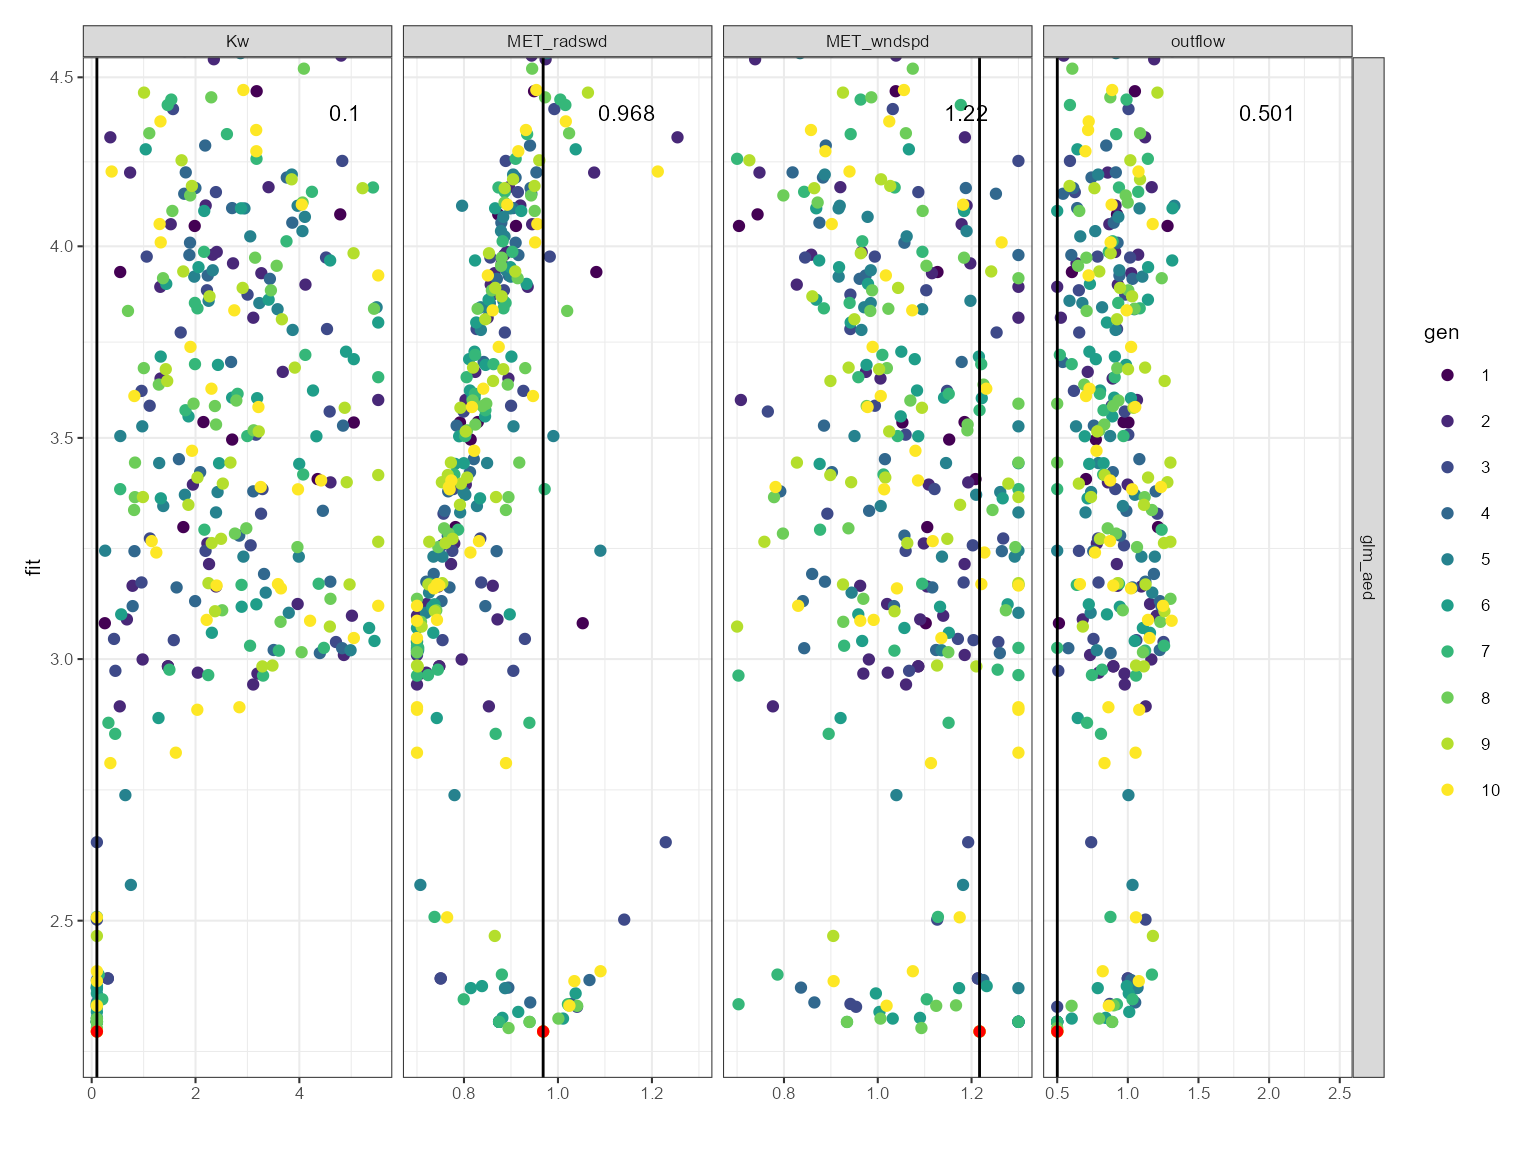
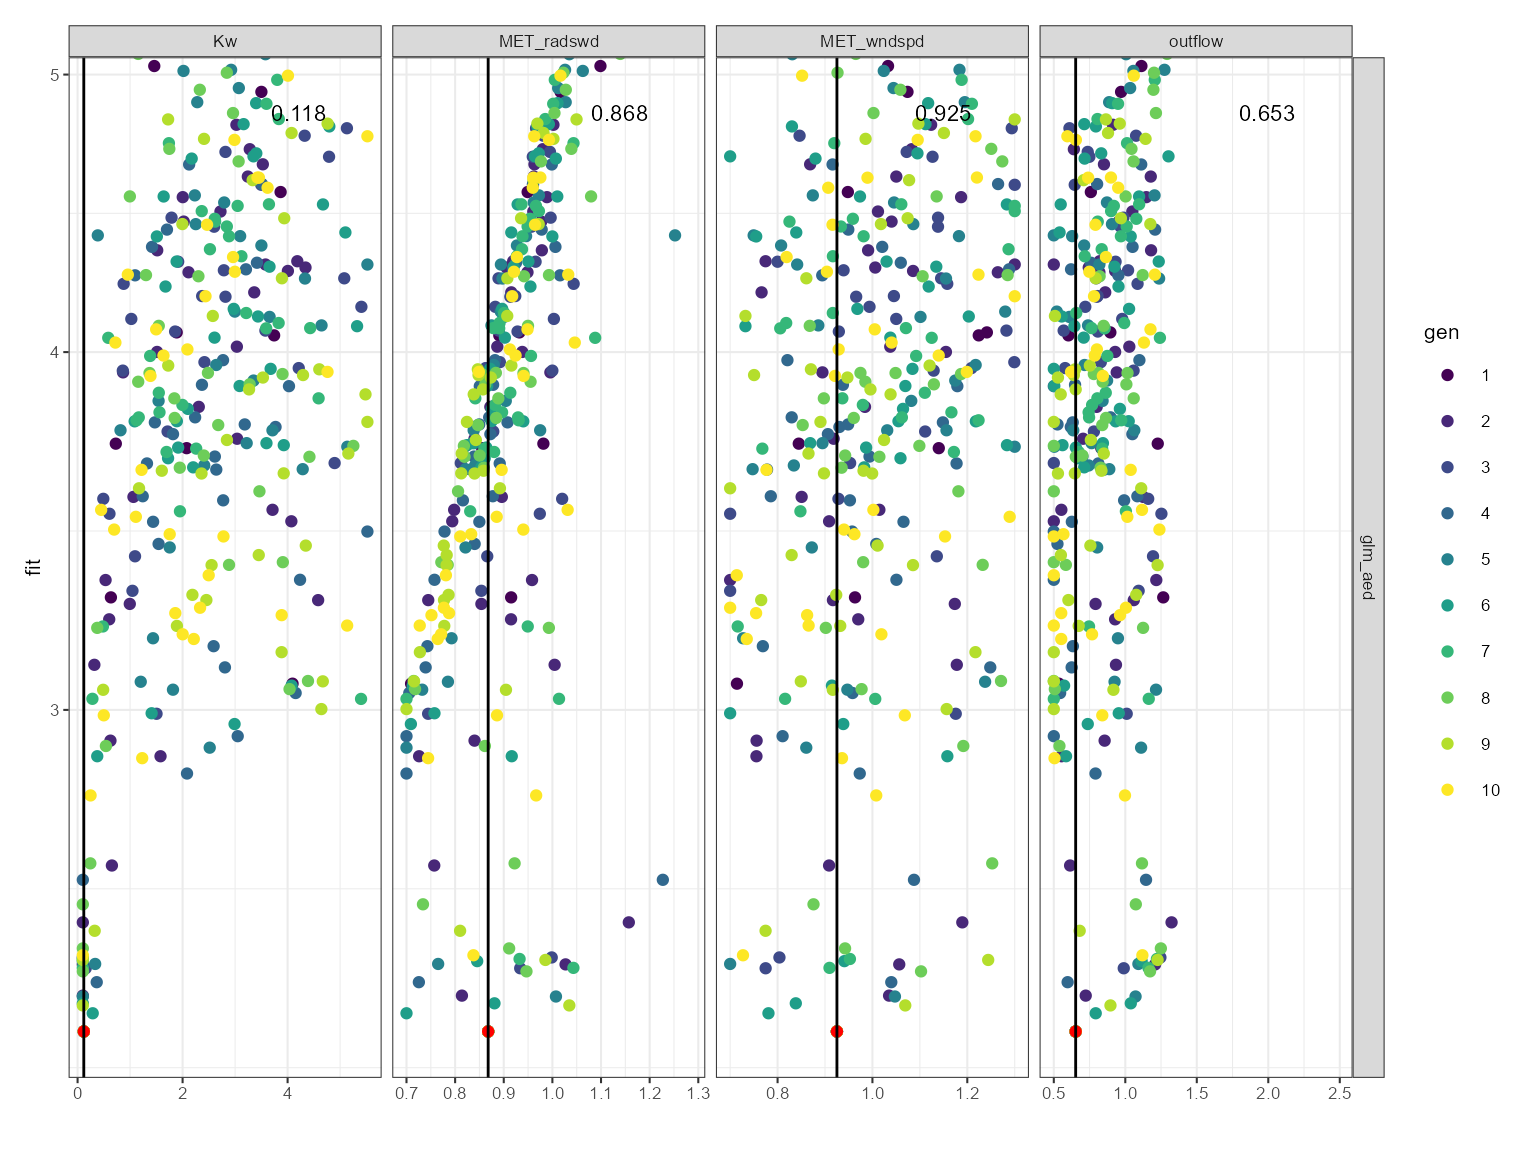
Deploying to gh-pages from @ limnotrack/aemetools@3beab13bdbebe8a0a042f3feb2450aef5371d04f 🚀

diff --git a/articles/calibrate-aeme.html b/articles/calibrate-aeme.html
@@ -121,9 +121,9 @@ make sure the current model setup is working.</p>
 <code class="sourceCode R"><span><span class="va">aeme_data</span> <span class="op">&lt;-</span> <span class="fu"><a href="https://rdrr.io/pkg/AEME/man/run_aeme.html" class="external-link">run_aeme</a></span><span class="op">(</span>aeme_data <span class="op">=</span> <span class="va">aeme_data</span>, model <span class="op">=</span> <span class="va">model</span>,</span>
 <span>                      verbose <span class="op">=</span> <span class="cn">FALSE</span>, mod_ctrls <span class="op">=</span> <span class="va">mod_ctrls</span>,</span>
 <span>                      path <span class="op">=</span> <span class="va">path</span><span class="op">)</span></span>
-<span><span class="co">#&gt; Running models... (Have you tried parallelizing?) [2023-11-10 00:38:08.716046]</span></span>
-<span><span class="co">#&gt; GLM-AED run successful! [2023-11-10 00:38:09.447004]</span></span>
-<span><span class="co">#&gt; Model run complete![2023-11-10 00:38:09.447869]</span></span>
+<span><span class="co">#&gt; Running models... (Have you tried parallelizing?) [2023-11-15 00:41:56.125141]</span></span>
+<span><span class="co">#&gt; GLM-AED run successful! [2023-11-15 00:41:56.868176]</span></span>
+<span><span class="co">#&gt; Model run complete![2023-11-15 00:41:56.868888]</span></span>
 <span><span class="co">#&gt; Retrieving and formatting temp for model glm_aed</span></span>
 <span><span class="co">#&gt; Retrieving and formatting salt for model glm_aed</span></span>
 <span><span class="fu"><a href="https://rdrr.io/r/graphics/plot.default.html" class="external-link">plot</a></span><span class="op">(</span><span class="va">aeme_data</span><span class="op">)</span></span></code></pre></div>
@@ -228,9 +228,9 @@ but the model output is generate within the lake folder.</p>
 <div class="sourceCode" id="cb7"><pre class="downlit sourceCode r">
 <code class="sourceCode R"><span><span class="fu"><a href="../reference/run_aeme_param.html">run_aeme_param</a></span><span class="op">(</span>aeme_data <span class="op">=</span> <span class="va">aeme_data</span>, param <span class="op">=</span> <span class="va">aeme_parameters</span>,</span>
 <span>                 model <span class="op">=</span> <span class="va">model</span>, path <span class="op">=</span> <span class="va">path</span>, mod_ctrls <span class="op">=</span> <span class="va">mod_ctrls</span><span class="op">)</span></span>
-<span><span class="co">#&gt; Running models... (Have you tried parallelizing?) [2023-11-10 00:38:21.963193]</span></span>
-<span><span class="co">#&gt; GLM-AED run successful! [2023-11-10 00:38:22.682436]</span></span>
-<span><span class="co">#&gt; Model run complete![2023-11-10 00:38:22.683314]</span></span></code></pre></div>
+<span><span class="co">#&gt; Running models... (Have you tried parallelizing?) [2023-11-15 00:42:07.5424]</span></span>
+<span><span class="co">#&gt; GLM-AED run successful! [2023-11-15 00:42:08.266664]</span></span>
+<span><span class="co">#&gt; Model run complete![2023-11-15 00:42:08.267369]</span></span></code></pre></div>
 </div>
 <div class="section level2">
 <h2 id="calibration-setup">Calibration setup<a class="anchor" aria-label="anchor" href="#calibration-setup"></a>
@@ -309,11 +309,11 @@ This is only used if <code>parallel = TRUE</code>.</li>
 </h3>
 <p>Next we will select the variables to use for the calibration. The
 variables selected need to use the AEME variable definition e.g.
-<code>c("HYD_temp", "HYD_wlev")</code>. Weights need to be attributed to
-each of the variables. The weights are used to scale the fitness value.
-This can be helpful if the variables have different units. For example,
-if the temperature is in degrees Celsius and the water level is in
-metres, then the water level will have a much larger impact on the
+<code>c("HYD_temp", "LKE_lvlwtr")</code>. Weights need to be attributed
+to each of the variables. The weights are used to scale the fitness
+value. This can be helpful if the variables have different units. For
+example, if the temperature is in degrees Celsius and the water level is
+in metres, then the water level will have a much larger impact on the
 fitness value. Therefore, the weight for the water level should be much
 smaller than the weight for the temperature.</p>
 <p>The weights are specified in a named vector. The names of the vector
@@ -364,79 +364,79 @@ values.</p>
 <span>                   param <span class="op">=</span> <span class="va">aeme_parameters</span>, model <span class="op">=</span> <span class="va">model</span>,</span>
 <span>                   mod_ctrls <span class="op">=</span> <span class="va">mod_ctrls</span>, FUN <span class="op">=</span> <span class="va">fit</span>, ctrl <span class="op">=</span> <span class="va">ctrl</span>,</span>
 <span>                   vars_sim <span class="op">=</span> <span class="va">vars_sim</span>, weights <span class="op">=</span> <span class="va">weights</span><span class="op">)</span></span>
-<span><span class="co">#&gt; Extracting indices for modelled variables [2023-11-10 00:38:23.019259]</span></span>
-<span><span class="co">#&gt; Complete! [2023-11-10 00:38:23.877314]</span></span>
+<span><span class="co">#&gt; Extracting indices for modelled variables [2023-11-15 00:42:08.591441]</span></span>
+<span><span class="co">#&gt; Complete! [2023-11-15 00:42:09.444006]</span></span>
 <span><span class="co">#&gt; Calibrating in parallel using 1 cores...</span></span>
-<span><span class="co">#&gt; Starting generation 1/10, 40 members. [2023-11-10 00:38:24.135107]</span></span>
+<span><span class="co">#&gt; Starting generation 1/10, 40 members. [2023-11-15 00:42:09.697376]</span></span>
 <span><span class="co">#&gt;        light.Kw MET_wndspd MET_radswd outflow</span></span>
-<span><span class="co">#&gt; mean      2.798     1.0010     1.0000  1.4970</span></span>
-<span><span class="co">#&gt; median    2.816     1.0000     1.0010  1.5200</span></span>
-<span><span class="co">#&gt; sd        1.594     0.1758     0.1751  0.5868</span></span>
-<span><span class="co">#&gt; Best fit: 2.985 (sd: 323.568)</span></span>
-<span><span class="co">#&gt;             Parameters: [1.469, 1.086, 0.747, 0.897]</span></span>
+<span><span class="co">#&gt; mean      2.812     0.9992     1.0000  1.4970</span></span>
+<span><span class="co">#&gt; median    2.821     0.9955     1.0030  1.4930</span></span>
+<span><span class="co">#&gt; sd        1.580     0.1758     0.1759  0.5849</span></span>
+<span><span class="co">#&gt; Best fit: 2.316 (sd: 323.419)</span></span>
+<span><span class="co">#&gt;             Parameters: [0.118, 0.925, 0.868, 0.653]</span></span>
 <span><span class="co">#&gt; Survival rate: 1</span></span>
-<span><span class="co">#&gt; Starting generation 2/10, 40 members. [2023-11-10 00:38:59.204338]</span></span>
+<span><span class="co">#&gt; Starting generation 2/10, 40 members. [2023-11-15 00:42:44.512473]</span></span>
 <span><span class="co">#&gt;        light.Kw MET_wndspd MET_radswd outflow</span></span>
-<span><span class="co">#&gt; mean      2.679     1.0180     0.8607  0.9628</span></span>
-<span><span class="co">#&gt; median    2.402     1.0210     0.8591  0.9241</span></span>
-<span><span class="co">#&gt; sd        1.453     0.1615     0.1250  0.3151</span></span>
-<span><span class="co">#&gt; Best fit: 2.4013 (sd: 158.09)</span></span>
+<span><span class="co">#&gt; mean      2.143     1.0100     0.9455  0.9471</span></span>
+<span><span class="co">#&gt; median    2.068     1.0090     0.9434  0.9290</span></span>
+<span><span class="co">#&gt; sd        1.480     0.1579     0.1186  0.2716</span></span>
+<span><span class="co">#&gt; Best fit: 2.3165 (sd: 139.55)</span></span>
 <span><span class="co">#&gt; Survival rate: 1</span></span>
-<span><span class="co">#&gt; Starting generation 3/10, 40 members. [2023-11-10 00:39:35.275272]</span></span>
+<span><span class="co">#&gt; Starting generation 3/10, 40 members. [2023-11-15 00:43:21.461046]</span></span>
 <span><span class="co">#&gt;        light.Kw MET_wndspd MET_radswd outflow</span></span>
-<span><span class="co">#&gt; mean      2.141     1.0630     0.9137  0.9251</span></span>
-<span><span class="co">#&gt; median    1.752     1.0830     0.8945  0.8788</span></span>
-<span><span class="co">#&gt; sd        1.576     0.1604     0.1348  0.3828</span></span>
-<span><span class="co">#&gt; Best fit: 2.3299 (sd: 174.86)</span></span>
+<span><span class="co">#&gt; mean      2.640     1.0090    0.95140  0.9963</span></span>
+<span><span class="co">#&gt; median    2.638     1.0450    0.95830  0.9726</span></span>
+<span><span class="co">#&gt; sd        1.595     0.1858    0.09285  0.3596</span></span>
+<span><span class="co">#&gt; Best fit: 2.3165 (sd: 187.4)</span></span>
 <span><span class="co">#&gt; Survival rate: 1</span></span>
-<span><span class="co">#&gt; Starting generation 4/10, 40 members. [2023-11-10 00:40:11.981652]</span></span>
+<span><span class="co">#&gt; Starting generation 4/10, 40 members. [2023-11-15 00:43:58.246233]</span></span>
 <span><span class="co">#&gt;        light.Kw MET_wndspd MET_radswd outflow</span></span>
-<span><span class="co">#&gt; mean      2.598     1.0240     0.8900  0.9277</span></span>
-<span><span class="co">#&gt; median    2.256     1.0250     0.8771  0.9281</span></span>
-<span><span class="co">#&gt; sd        1.489     0.1661     0.1432  0.2611</span></span>
-<span><span class="co">#&gt; Best fit: 2.3299 (sd: 128.9)</span></span>
+<span><span class="co">#&gt; mean      2.367     0.9896     0.8880  0.9153</span></span>
+<span><span class="co">#&gt; median    2.321     0.9657     0.8713  0.8071</span></span>
+<span><span class="co">#&gt; sd        1.313     0.1542     0.1283  0.4025</span></span>
+<span><span class="co">#&gt; Best fit: 2.3165 (sd: 208.88)</span></span>
 <span><span class="co">#&gt; Survival rate: 1</span></span>
-<span><span class="co">#&gt; Starting generation 5/10, 40 members. [2023-11-10 00:40:48.090894]</span></span>
+<span><span class="co">#&gt; Starting generation 5/10, 40 members. [2023-11-15 00:44:35.140273]</span></span>
 <span><span class="co">#&gt;        light.Kw MET_wndspd MET_radswd outflow</span></span>
-<span><span class="co">#&gt; mean      2.647     1.0870     0.8846  0.8762</span></span>
-<span><span class="co">#&gt; median    2.760     1.0970     0.8768  0.8252</span></span>
-<span><span class="co">#&gt; sd        1.444     0.1598     0.1385  0.2694</span></span>
-<span><span class="co">#&gt; Best fit: 2.3299 (sd: 130.8)</span></span>
+<span><span class="co">#&gt; mean      2.525     1.0050     0.9353  0.9424</span></span>
+<span><span class="co">#&gt; median    2.346     1.0280     0.9023  0.8975</span></span>
+<span><span class="co">#&gt; sd        1.423     0.1668     0.1271  0.2889</span></span>
+<span><span class="co">#&gt; Best fit: 2.3165 (sd: 157.8)</span></span>
 <span><span class="co">#&gt; Survival rate: 1</span></span>
-<span><span class="co">#&gt; Starting generation 6/10, 40 members. [2023-11-10 00:41:25.230467]</span></span>
+<span><span class="co">#&gt; Starting generation 6/10, 40 members. [2023-11-15 00:45:12.292071]</span></span>
 <span><span class="co">#&gt;        light.Kw MET_wndspd MET_radswd outflow</span></span>
-<span><span class="co">#&gt; mean      2.544     1.0440     0.8650  0.9267</span></span>
-<span><span class="co">#&gt; median    2.471     1.0500     0.8416  0.8520</span></span>
-<span><span class="co">#&gt; sd        1.724     0.1399     0.1053  0.3532</span></span>
-<span><span class="co">#&gt; Best fit: 2.3299 (sd: 151.21)</span></span>
+<span><span class="co">#&gt; mean      2.442     0.9963    0.90670  0.8934</span></span>
+<span><span class="co">#&gt; median    2.405     1.0080    0.90080  0.8376</span></span>
+<span><span class="co">#&gt; sd        1.558     0.1506    0.09105  0.3436</span></span>
+<span><span class="co">#&gt; Best fit: 2.3165 (sd: 166.55)</span></span>
 <span><span class="co">#&gt; Survival rate: 1</span></span>
-<span><span class="co">#&gt; Starting generation 7/10, 40 members. [2023-11-10 00:42:02.401227]</span></span>
+<span><span class="co">#&gt; Starting generation 7/10, 40 members. [2023-11-15 00:45:49.628018]</span></span>
 <span><span class="co">#&gt;        light.Kw MET_wndspd MET_radswd outflow</span></span>
-<span><span class="co">#&gt; mean      2.339     1.0190    0.85180  0.9152</span></span>
-<span><span class="co">#&gt; median    2.208     1.0110    0.86510  0.8995</span></span>
-<span><span class="co">#&gt; sd        1.597     0.1785    0.09605  0.2920</span></span>
-<span><span class="co">#&gt; Best fit: 2.3296 (sd: 158.15)</span></span>
+<span><span class="co">#&gt; mean      2.327     1.0190    0.94890  0.9891</span></span>
+<span><span class="co">#&gt; median    2.312     0.9882    0.93690  0.9103</span></span>
+<span><span class="co">#&gt; sd        1.465     0.1606    0.09455  0.3144</span></span>
+<span><span class="co">#&gt; Best fit: 2.3165 (sd: 205.03)</span></span>
 <span><span class="co">#&gt; Survival rate: 1</span></span>
-<span><span class="co">#&gt; Starting generation 8/10, 40 members. [2023-11-10 00:42:39.604834]</span></span>
+<span><span class="co">#&gt; Starting generation 8/10, 40 members. [2023-11-15 00:46:26.319569]</span></span>
 <span><span class="co">#&gt;        light.Kw MET_wndspd MET_radswd outflow</span></span>
-<span><span class="co">#&gt; mean      2.251     1.0580    0.88060  0.8963</span></span>
-<span><span class="co">#&gt; median    2.384     1.0480    0.89120  0.8973</span></span>
-<span><span class="co">#&gt; sd        1.536     0.1517    0.09928  0.2685</span></span>
-<span><span class="co">#&gt; Best fit: 2.3142 (sd: 119.23)</span></span>
+<span><span class="co">#&gt; mean      2.164     1.0380     0.9239  0.9360</span></span>
+<span><span class="co">#&gt; median    2.124     1.0080     0.9167  0.9337</span></span>
+<span><span class="co">#&gt; sd        1.440     0.1346     0.1215  0.2844</span></span>
+<span><span class="co">#&gt; Best fit: 2.3165 (sd: 139.08)</span></span>
 <span><span class="co">#&gt; Survival rate: 1</span></span>
-<span><span class="co">#&gt; Starting generation 9/10, 40 members. [2023-11-10 00:43:16.324238]</span></span>
+<span><span class="co">#&gt; Starting generation 9/10, 40 members. [2023-11-15 00:47:03.209382]</span></span>
 <span><span class="co">#&gt;        light.Kw MET_wndspd MET_radswd outflow</span></span>
-<span><span class="co">#&gt; mean      2.954     1.0130     0.8406  1.0950</span></span>
-<span><span class="co">#&gt; median    2.790     1.0120     0.8189  1.0490</span></span>
-<span><span class="co">#&gt; sd        1.589     0.1677     0.1146  0.4126</span></span>
-<span><span class="co">#&gt; Best fit: 2.3142 (sd: 211.57)</span></span>
+<span><span class="co">#&gt; mean      2.744     0.9691    0.87420  0.8610</span></span>
+<span><span class="co">#&gt; median    2.564     0.9834    0.85780  0.7575</span></span>
+<span><span class="co">#&gt; sd        1.630     0.1484    0.09755  0.3731</span></span>
+<span><span class="co">#&gt; Best fit: 2.3165 (sd: 164.64)</span></span>
 <span><span class="co">#&gt; Survival rate: 1</span></span>
-<span><span class="co">#&gt; Starting generation 10/10, 40 members. [2023-11-10 00:43:51.909904]</span></span>
+<span><span class="co">#&gt; Starting generation 10/10, 40 members. [2023-11-15 00:47:40.779565]</span></span>
 <span><span class="co">#&gt;        light.Kw MET_wndspd MET_radswd outflow</span></span>
-<span><span class="co">#&gt; mean      2.444      1.067     0.8611  1.0070</span></span>
-<span><span class="co">#&gt; median    2.357      1.065     0.8459  0.8931</span></span>
-<span><span class="co">#&gt; sd        1.578      0.147     0.1259  0.3749</span></span>
-<span><span class="co">#&gt; Best fit: 2.3142 (sd: 174.92)</span></span>
+<span><span class="co">#&gt; mean      2.259     0.9803     0.9161  0.8979</span></span>
+<span><span class="co">#&gt; median    2.190     0.9510     0.9226  0.8411</span></span>
+<span><span class="co">#&gt; sd        1.357     0.1616     0.1150  0.3690</span></span>
+<span><span class="co">#&gt; Best fit: 2.3165 (sd: 151.13)</span></span>
 <span><span class="co">#&gt; Survival rate: 1</span></span></code></pre></div>
 </div>
 <div class="section level2">

diff --git a/articles/download-era5.html b/articles/download-era5.html
@@ -94,8 +94,8 @@ your computer to speed up the download.</p>
 <span><span class="va">met</span> <span class="op">&lt;-</span> <span class="fu"><a href="../reference/get_era5_point.html">get_era5_point</a></span><span class="op">(</span>lat <span class="op">=</span> <span class="va">lat</span>, lon <span class="op">=</span> <span class="va">lon</span>, years <span class="op">=</span> <span class="fl">2000</span><span class="op">:</span><span class="fl">2001</span>,</span>
 <span>                      variables <span class="op">=</span> <span class="va">variables</span>, format <span class="op">=</span> <span class="st">"aeme"</span>, parallel <span class="op">=</span> <span class="cn">TRUE</span><span class="op">)</span></span>
 <span><span class="co">#&gt; Auto-refreshing stale OAuth token.</span></span>
-<span><span class="co">#&gt; Downloading ERA5 variables in parallel... [2023-11-10 00:44:40.146548]</span></span>
-<span><span class="co">#&gt; Finished downloading ERA5 variables! [2023-11-10 00:44:55.097587]</span></span>
+<span><span class="co">#&gt; Downloading ERA5 variables in parallel... [2023-11-15 00:48:29.028814]</span></span>
+<span><span class="co">#&gt; Finished downloading ERA5 variables! [2023-11-15 00:48:41.675035]</span></span>
 <span><span class="fu"><a href="https://rdrr.io/r/base/summary.html" class="external-link">summary</a></span><span class="op">(</span><span class="va">met</span><span class="op">)</span></span>
 <span><span class="co">#&gt;       Date              MET_tmpair       MET_pprain     </span></span>
 <span><span class="co">#&gt;  Min.   :2000-01-01   Min.   : 3.407   Min.   : 0.0000  </span></span>
